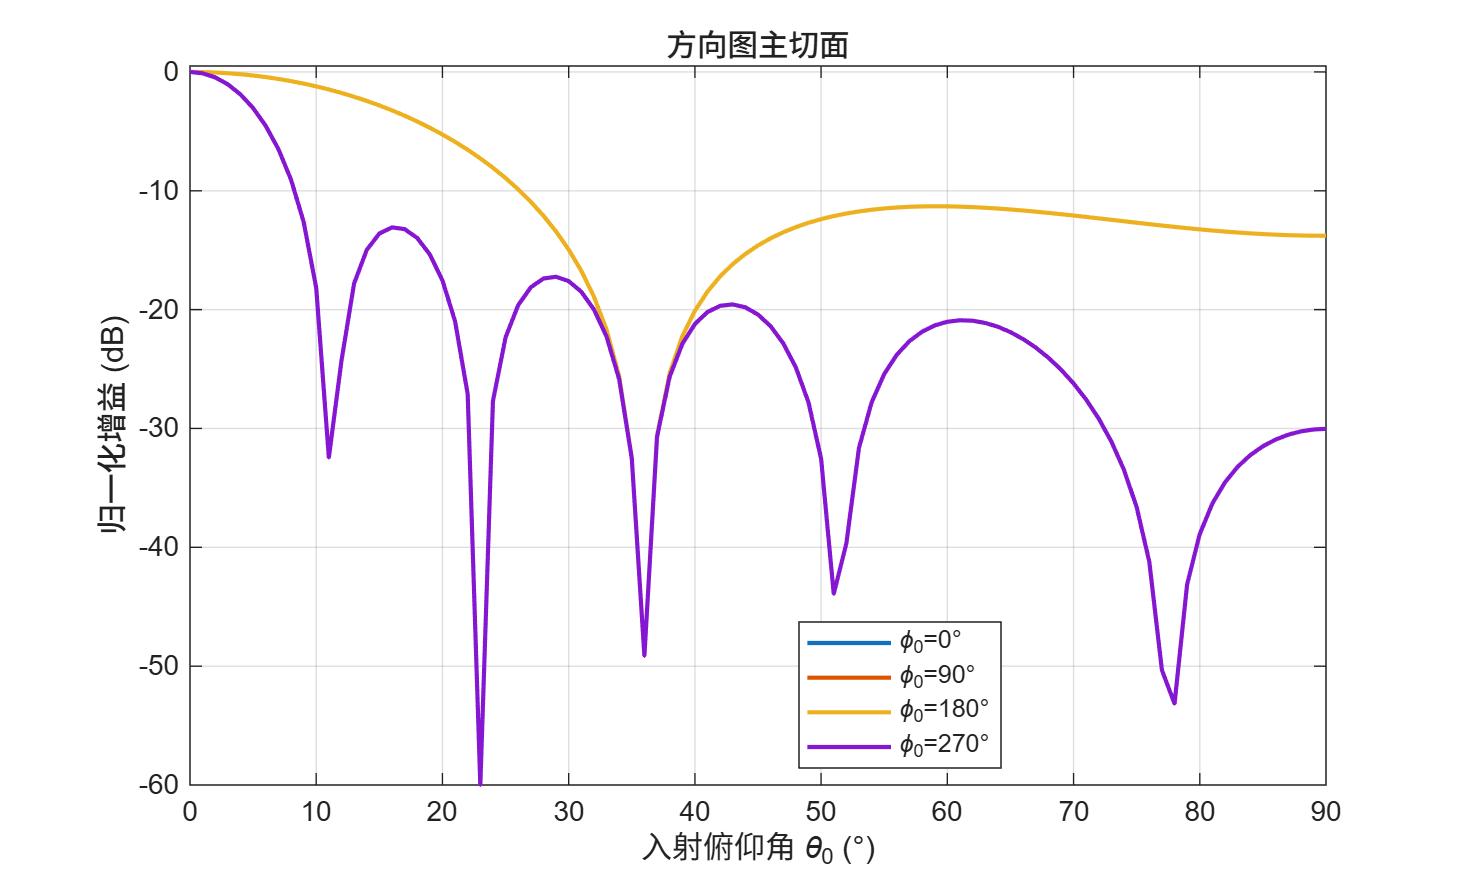
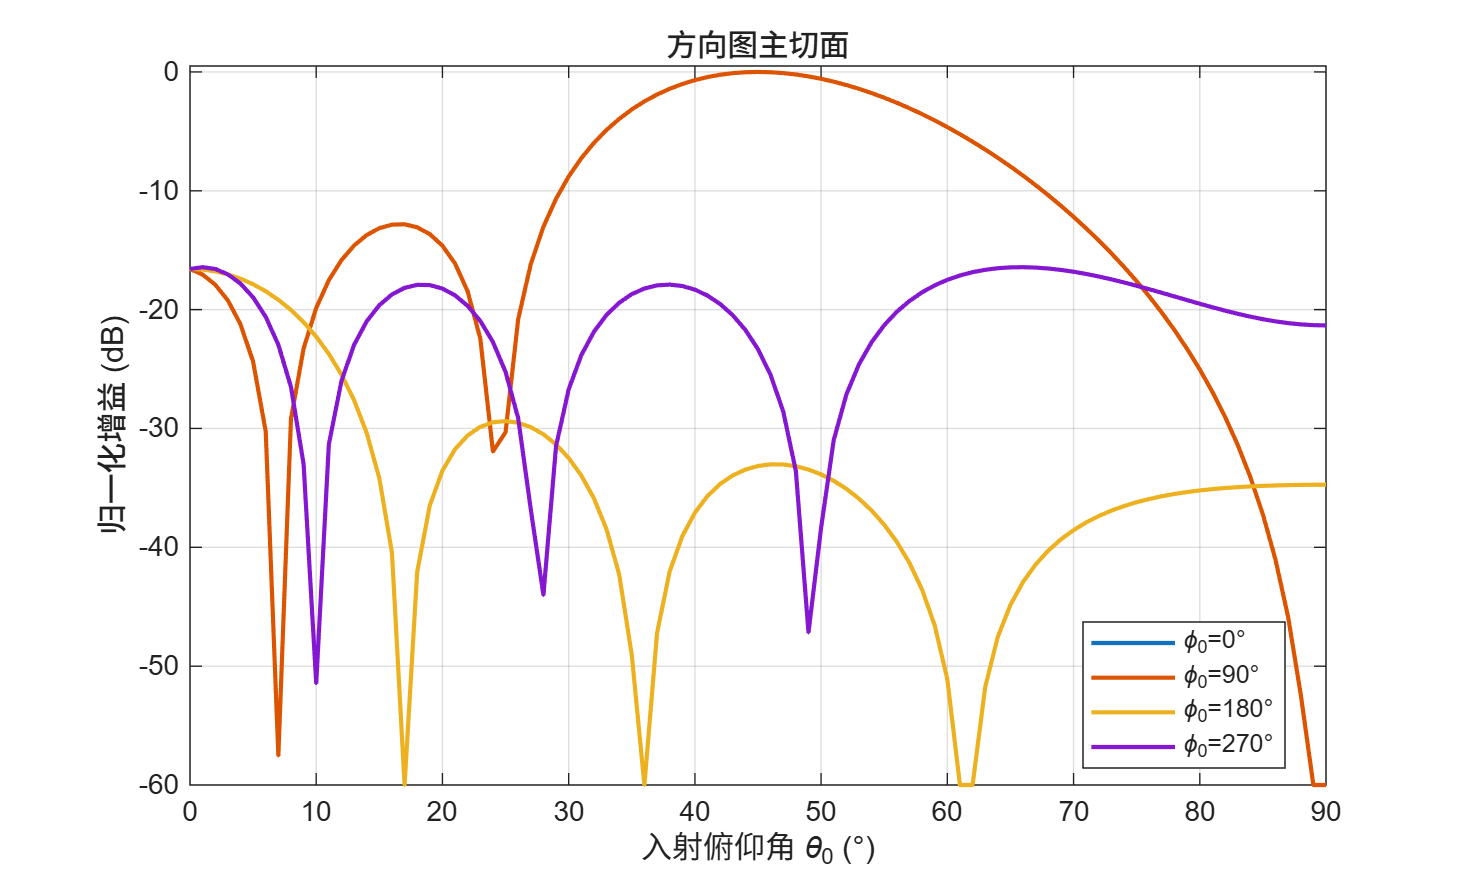
Update 2D pattern plot title with array size and beam direction

diff --git a/matsim/DBF_sim_2d_v102.m b/matsim/DBF_sim_2d_v102.m
@@ -7,8 +7,8 @@ c = 3e8;                % 光速 (m/s)
 fc = 10e6;              % 载频 (Hz),可更改
 lambda = c/fc;          % 工作波长 (m)
 
-theta = 0;              % 波束指向俯仰角(相对+z轴),可更改,范围 0~pi
-phi = 0;                % 波束指向方位角(相对+x轴),可更改,范围 0~2pi
+theta = pi/4;              % 波束指向俯仰角(相对+z轴),可更改,范围 0~pi
+phi = pi/2;                % 波束指向方位角(相对+x轴),可更改,范围 0~2pi
 theta_0 = 0;            % 输入信号到达方向俯仰角,可更改
 phi_0 = 0;              % 输入信号到达方向方位角,可更改
 
@@ -19,8 +19,8 @@ N = K * (fs/fc);        % 采样点数(整周期数 -> FFT 无泄漏)
 t = (0:N-1)/fs;         % 时间轴
 
 % ===== 阵列参数(可更改) =====
-array_m = 4;            % x 向阵元数,可更改
-array_n = 12;           % y 向阵元数,可更改
+array_m = 8;            % x 向阵元数,可更改
+array_n = 8;           % y 向阵元数,可更改
 array_dx = 12.8;        % x 向阵元间距 (m),可更改
 array_dy = 12.8;        % y 向阵元间距 (m),可更改
 
@@ -104,14 +104,14 @@ grid on;
 xlabel('x');
 ylabel('y');
 zlabel('z');
-title(sprintf('三维波束方向图(x=%d y=%d)', array_m, array_n));
+title(sprintf('三维波束方向图 %d×%d 阵元, 指向 (θ=%.1f°, φ=%.1f°)', array_m, array_n, theta*180/pi, phi*180/pi));
 view(120, 25);                  % 方位角 120°,仰角 25°
 
 % 颜色条显示 dB
 colorbar;
 clim([floor_dB 0]);
 colormap jet;
-print(h2, '-dpng', '-r200', fullfile(fileparts(mfilename('fullpath')), 'DBF_2d_pattern_3d.png'));
+print(h2, '-dpng', '-r200', fullfile(fileparts(mfilename('fullpath')), 'DBF_2d_pattern_3d_6.png'));
 
 % ===== 图3: 主切面方向图(phi=0°/90°/180°/270°) =====
 h3 = figure('Name', 'Beam Pattern Cuts', 'NumberTitle', 'off');
